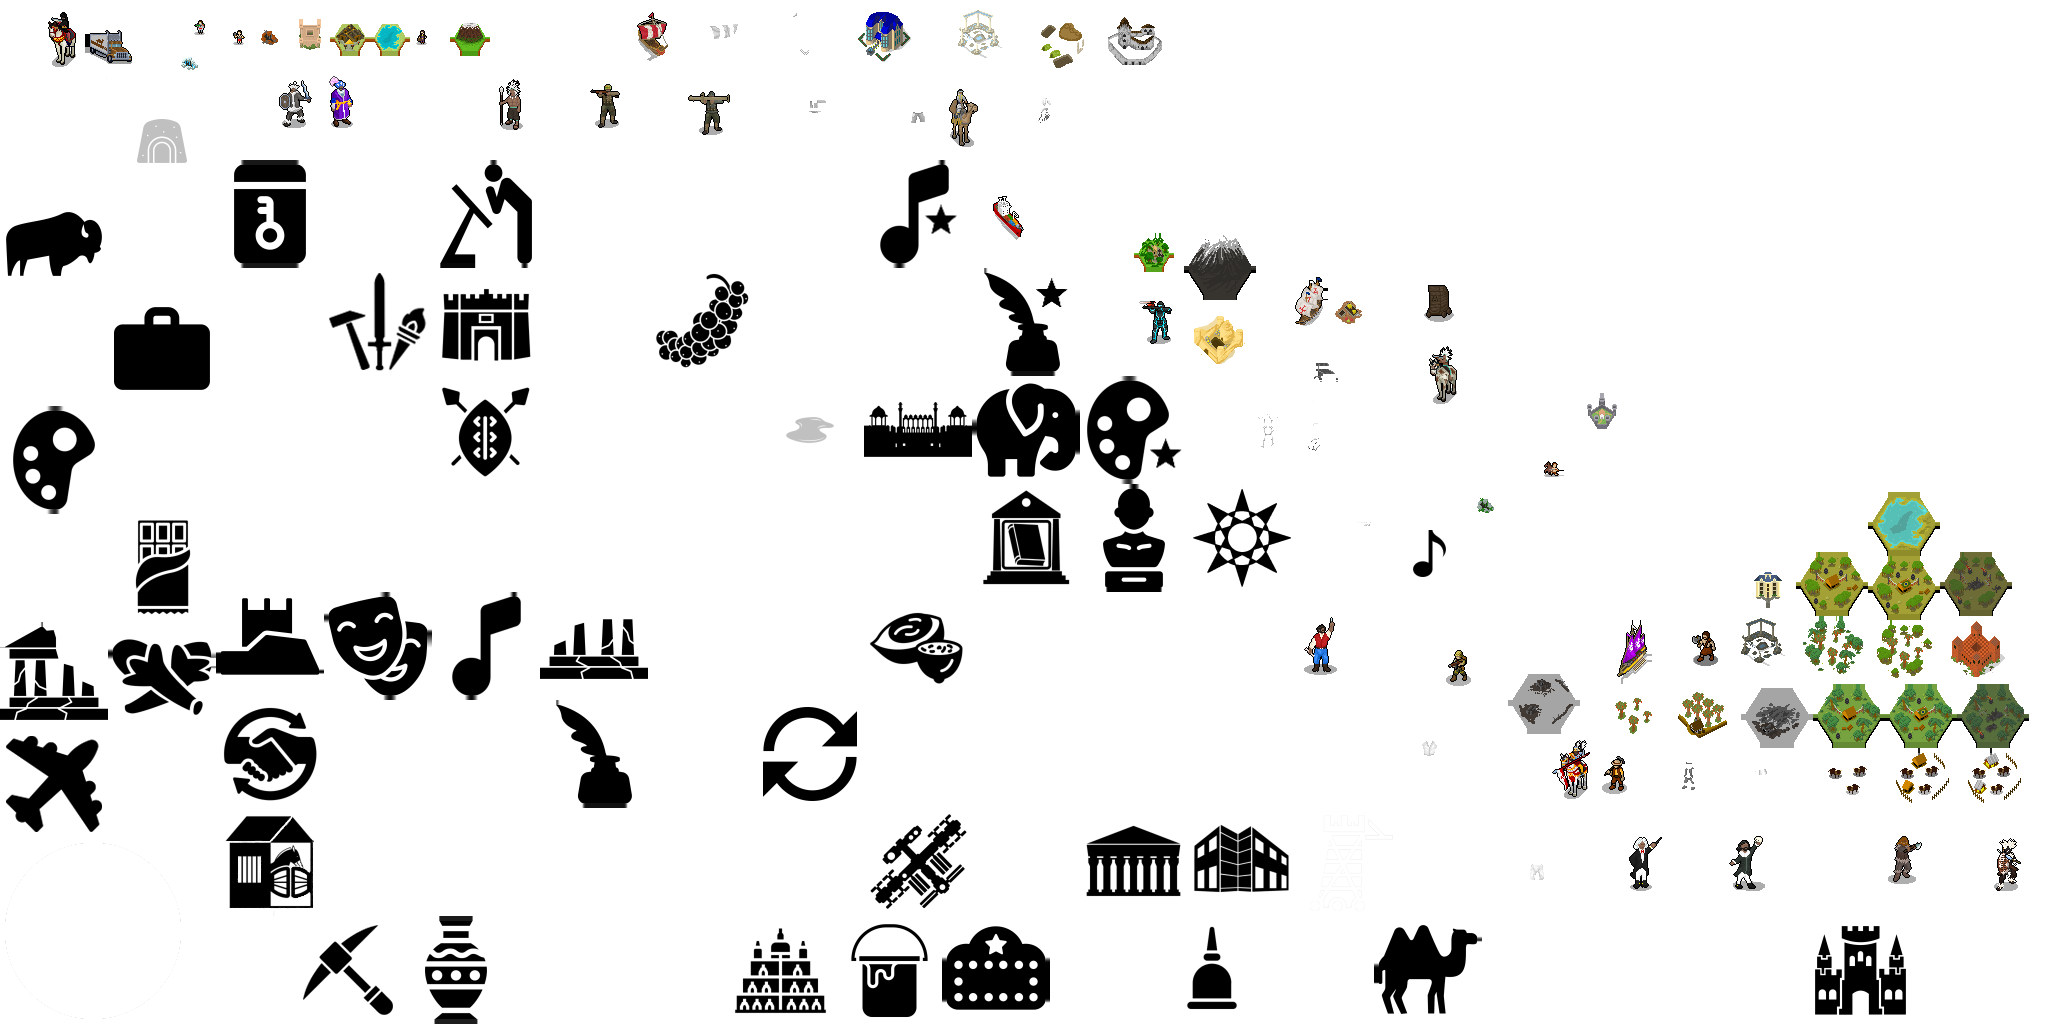
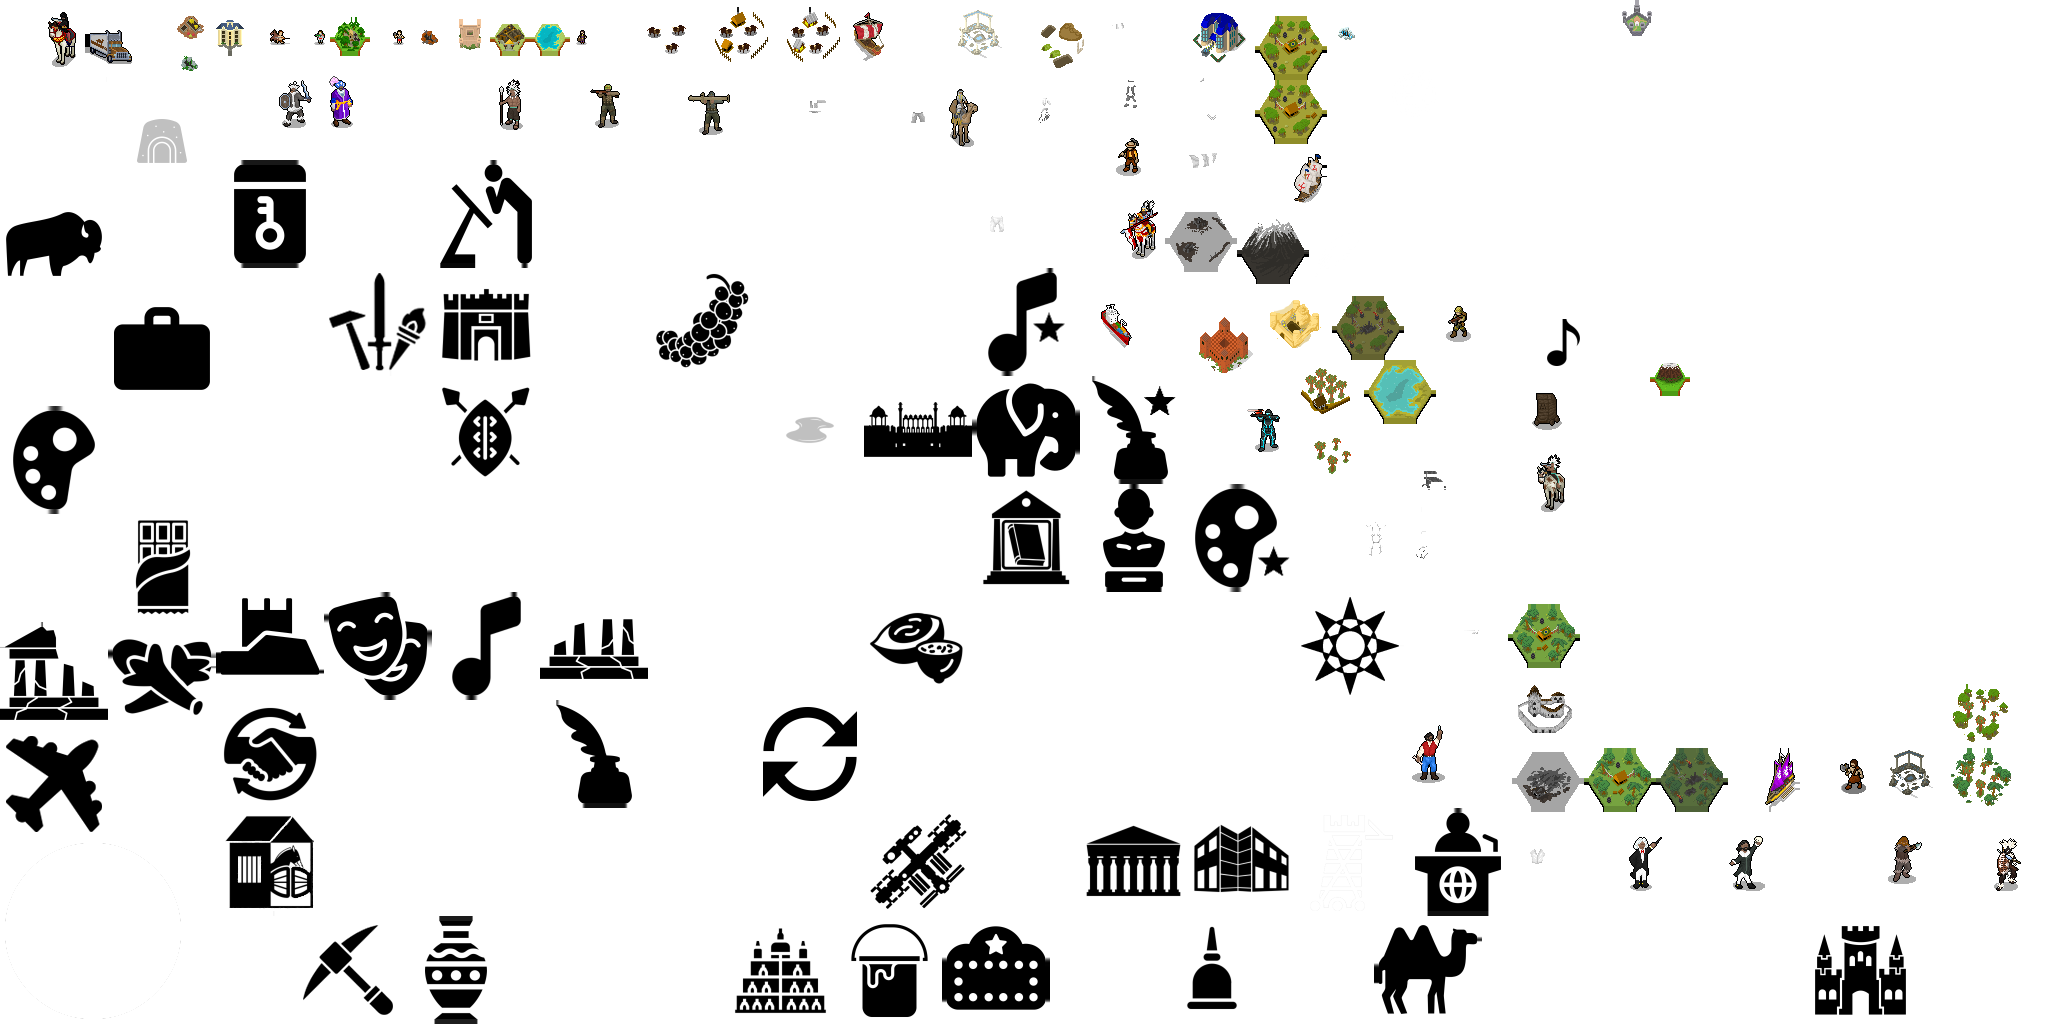
Add New World Congress

diff --git a/CREDITS.md b/CREDITS.md
@@ -99,6 +99,7 @@
 - [Comanche Riders](https://thenounproject.com/icon/native-indian-headdress-6252201/) by Juicy Fish
 - [Courthouse](https://thenounproject.com/icon/courthouse-7403358/) by Ariyanto Deni
 - [Creative Expression](https://thenounproject.com/icon/splash-4390563/) by AbtoCreative from NounProject.com
+- [Convention](https://thenounproject.com/icon/convention-5970795/) by Andre Buand for BuildingIcons/World Congress
 - [Cult of Personality](https://thenounproject.com/icon/bully-4616110/) by Kamin Ginkaew
 - [Cultural Revolution](https://thenounproject.com/icon/cultural-activities-7659287/) by Mia Elysia
 - [Deal](https://thenounproject.com/icon/deal-7503121/) by Imron Sadewo
